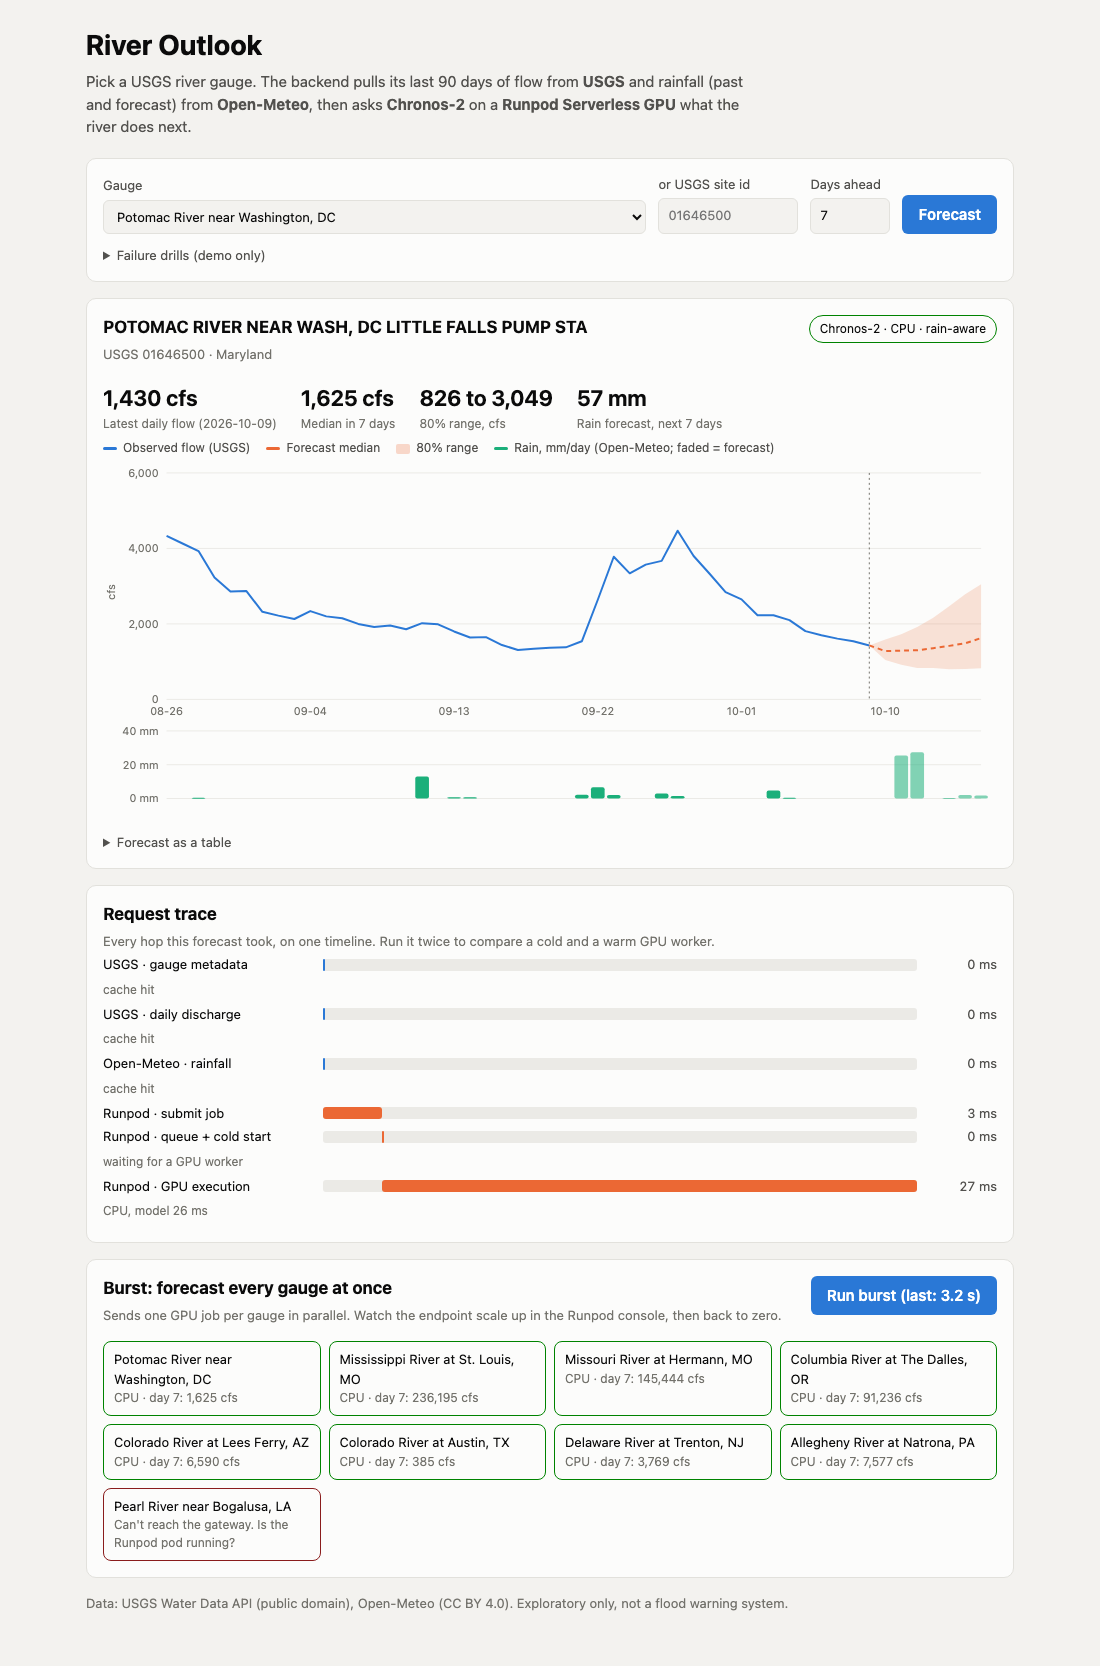
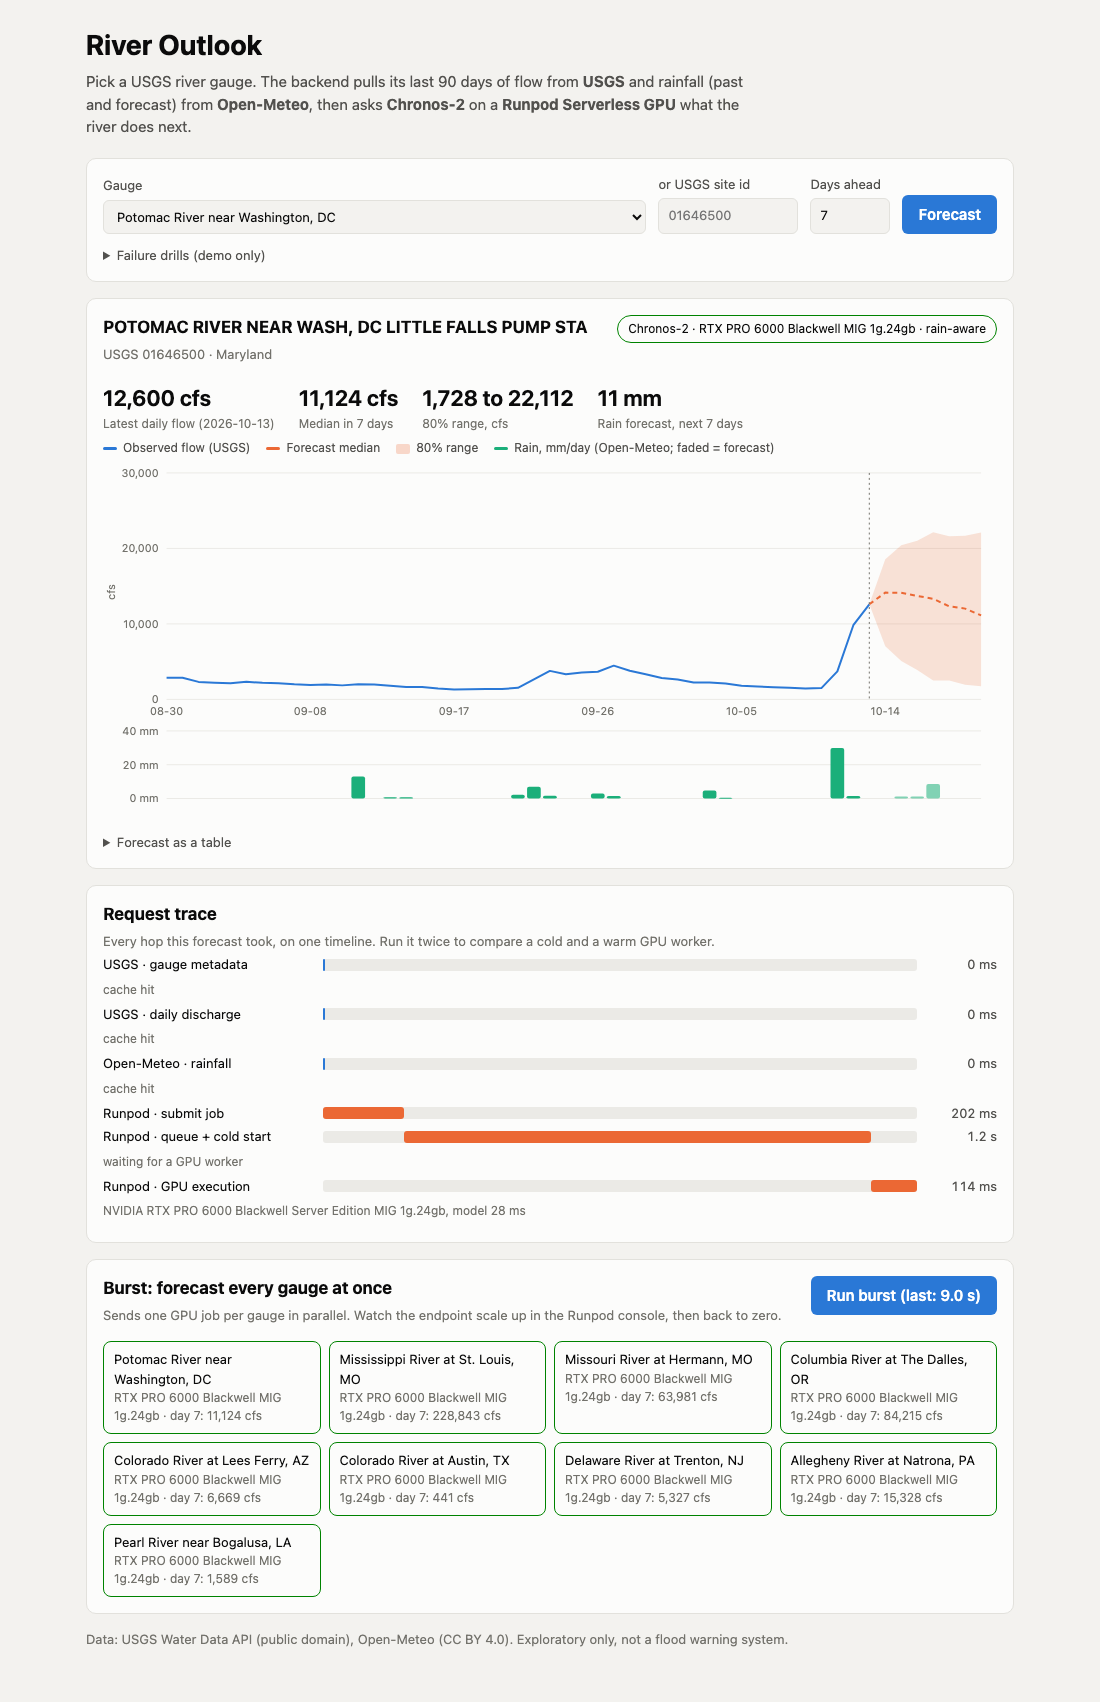
Live screenshot, test count, reality-check beat in demo script

diff --git a/docs/demo-script.md b/docs/demo-script.md
@@ -11,7 +11,8 @@ Runpod console open on the endpoint's page in a second tab.
 | 6 to 10 | **Trace one request** | Read the request trace from top to bottom: USGS (parallel), Open-Meteo, Runpod submit, queue and cold start, GPU execution. Then the code: `service.create()`, then `runpod_client.submit()`, then `worker/handler.py`. Run it again: cache hits, and the queue time drops on a warm worker. |
 | 10 to 13 | **Failure drills** | Tick *Open-Meteo down*: the forecast still runs, without rain, with a banner. *USGS rate limit*: a 503 with a countdown on the retry button. *Runpod GPU unavailable*: the CPU baseline with a banner. Show `tests/test_failures.py` covers each one. |
 | 13 to 15 | **Burst** | Click *Run burst* (9 gauges). Switch to the Runpod console tab and watch workers scale up, then idle back to zero. Mention the cost of the whole project in credits. |
-| 15 to 17 | **Technical challenge** | Pick one: (a) USGS is replacing `waterservices` with the new OGC API, which has a 1,000 req/hour per IP limit, hence the caching and never retrying a 429; (b) Open-Meteo returns nulls for its oldest past days, which silently dropped the rain input until the gateway learned to trim the history window (a test now pins it); (c) the 100 s proxy limit, which is why this uses `/run` + polling. |
+| 15 to 16 | **Technical challenge** | Pick one: (a) USGS is replacing `waterservices` with the new OGC API, which has a 1,000 req/hour per IP limit, hence the caching and never retrying a 429; (b) Open-Meteo returns nulls for its oldest past days, which silently dropped the rain input until the gateway learned to trim the history window (a test now pins it); (c) the 100 s proxy limit, which is why this uses `/run` + polling. |
+| 16 to 17 | **Reality check** | The rain fell: the Potomac hit 12,600 cfs on Oct 13, about 6x the forecast's upper bound. Own it: point rain plus 90 days of history can't anticipate a flood. That motivates basin rain and a backtest. |
 | 17 to 19 | **Tradeoffs and next steps** | Be honest that one gauge doesn't need a GPU, and say where it does (batching a state's gauges into one job, bigger models). Then cover the in-memory job store, point vs. basin rainfall, and backtesting the 80% band. Explain how AI was used. |
 | 19 to 20 | **Close** | The README's local quickstart runs the whole stack without credits via `worker/local_runpod.py`, and deploying is two images: a Pod and an endpoint. |
 

diff --git a/README.md b/README.md
@@ -30,7 +30,7 @@ the GPU path fails, the gateway answers with a CPU statistical baseline instead.
 > percentile was 2,889 cfs. One event proves little either way, which is why a proper
 > backtest is the first item under next steps.
 
-![River Outlook: Potomac forecast, request trace, and burst run](docs/screenshot.png)
+![River Outlook on the live deployment: Potomac forecast on a Runpod GPU, request trace, and a 9-gauge burst](docs/screenshot.png)
 
 > Exploratory tool, not a flood warning system.
 
@@ -211,7 +211,7 @@ Set `ALLOW_FAULT_INJECTION=true` and use **Failure drills** in the UI (or
 ## Tests
 
 ```bash
-cd gateway && .venv/bin/pytest -q    # 16 tests, upstreams mocked with respx
+cd gateway && .venv/bin/pytest -q    # 18 tests, upstreams mocked with respx
 cd worker  && pytest -q              # 8 tests, input validation + frame shaping (no model)
 ```
 
